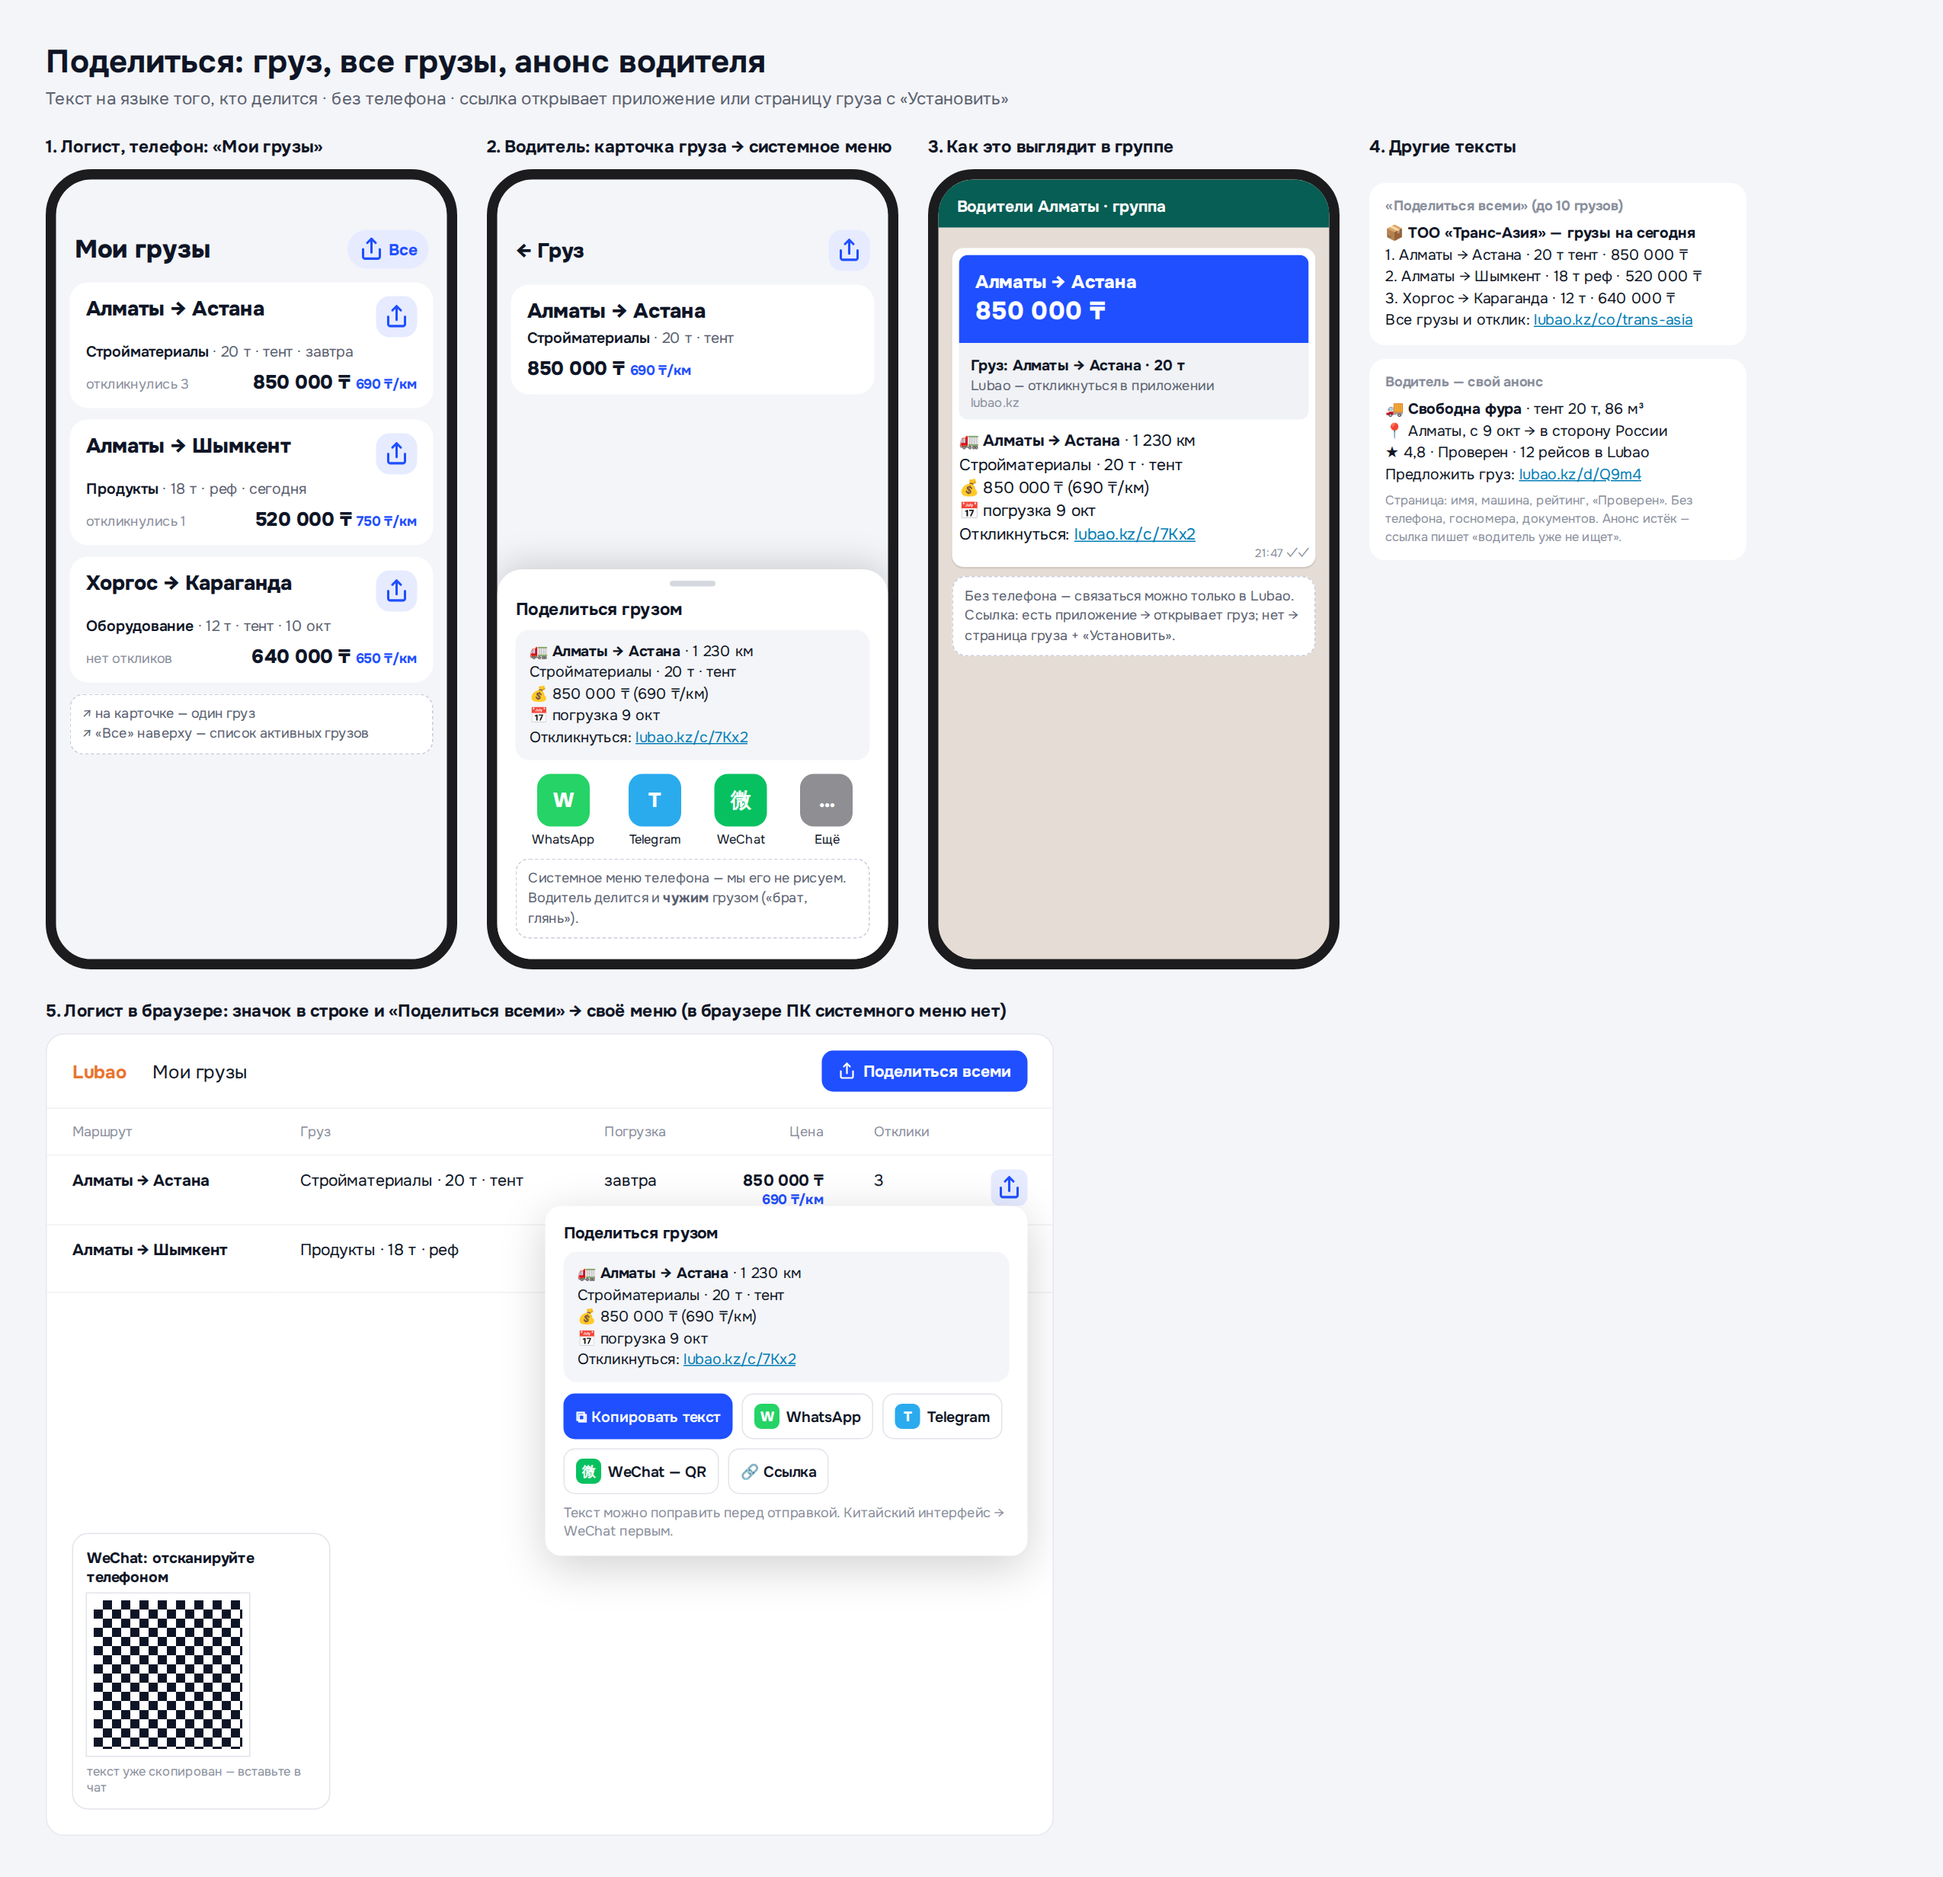
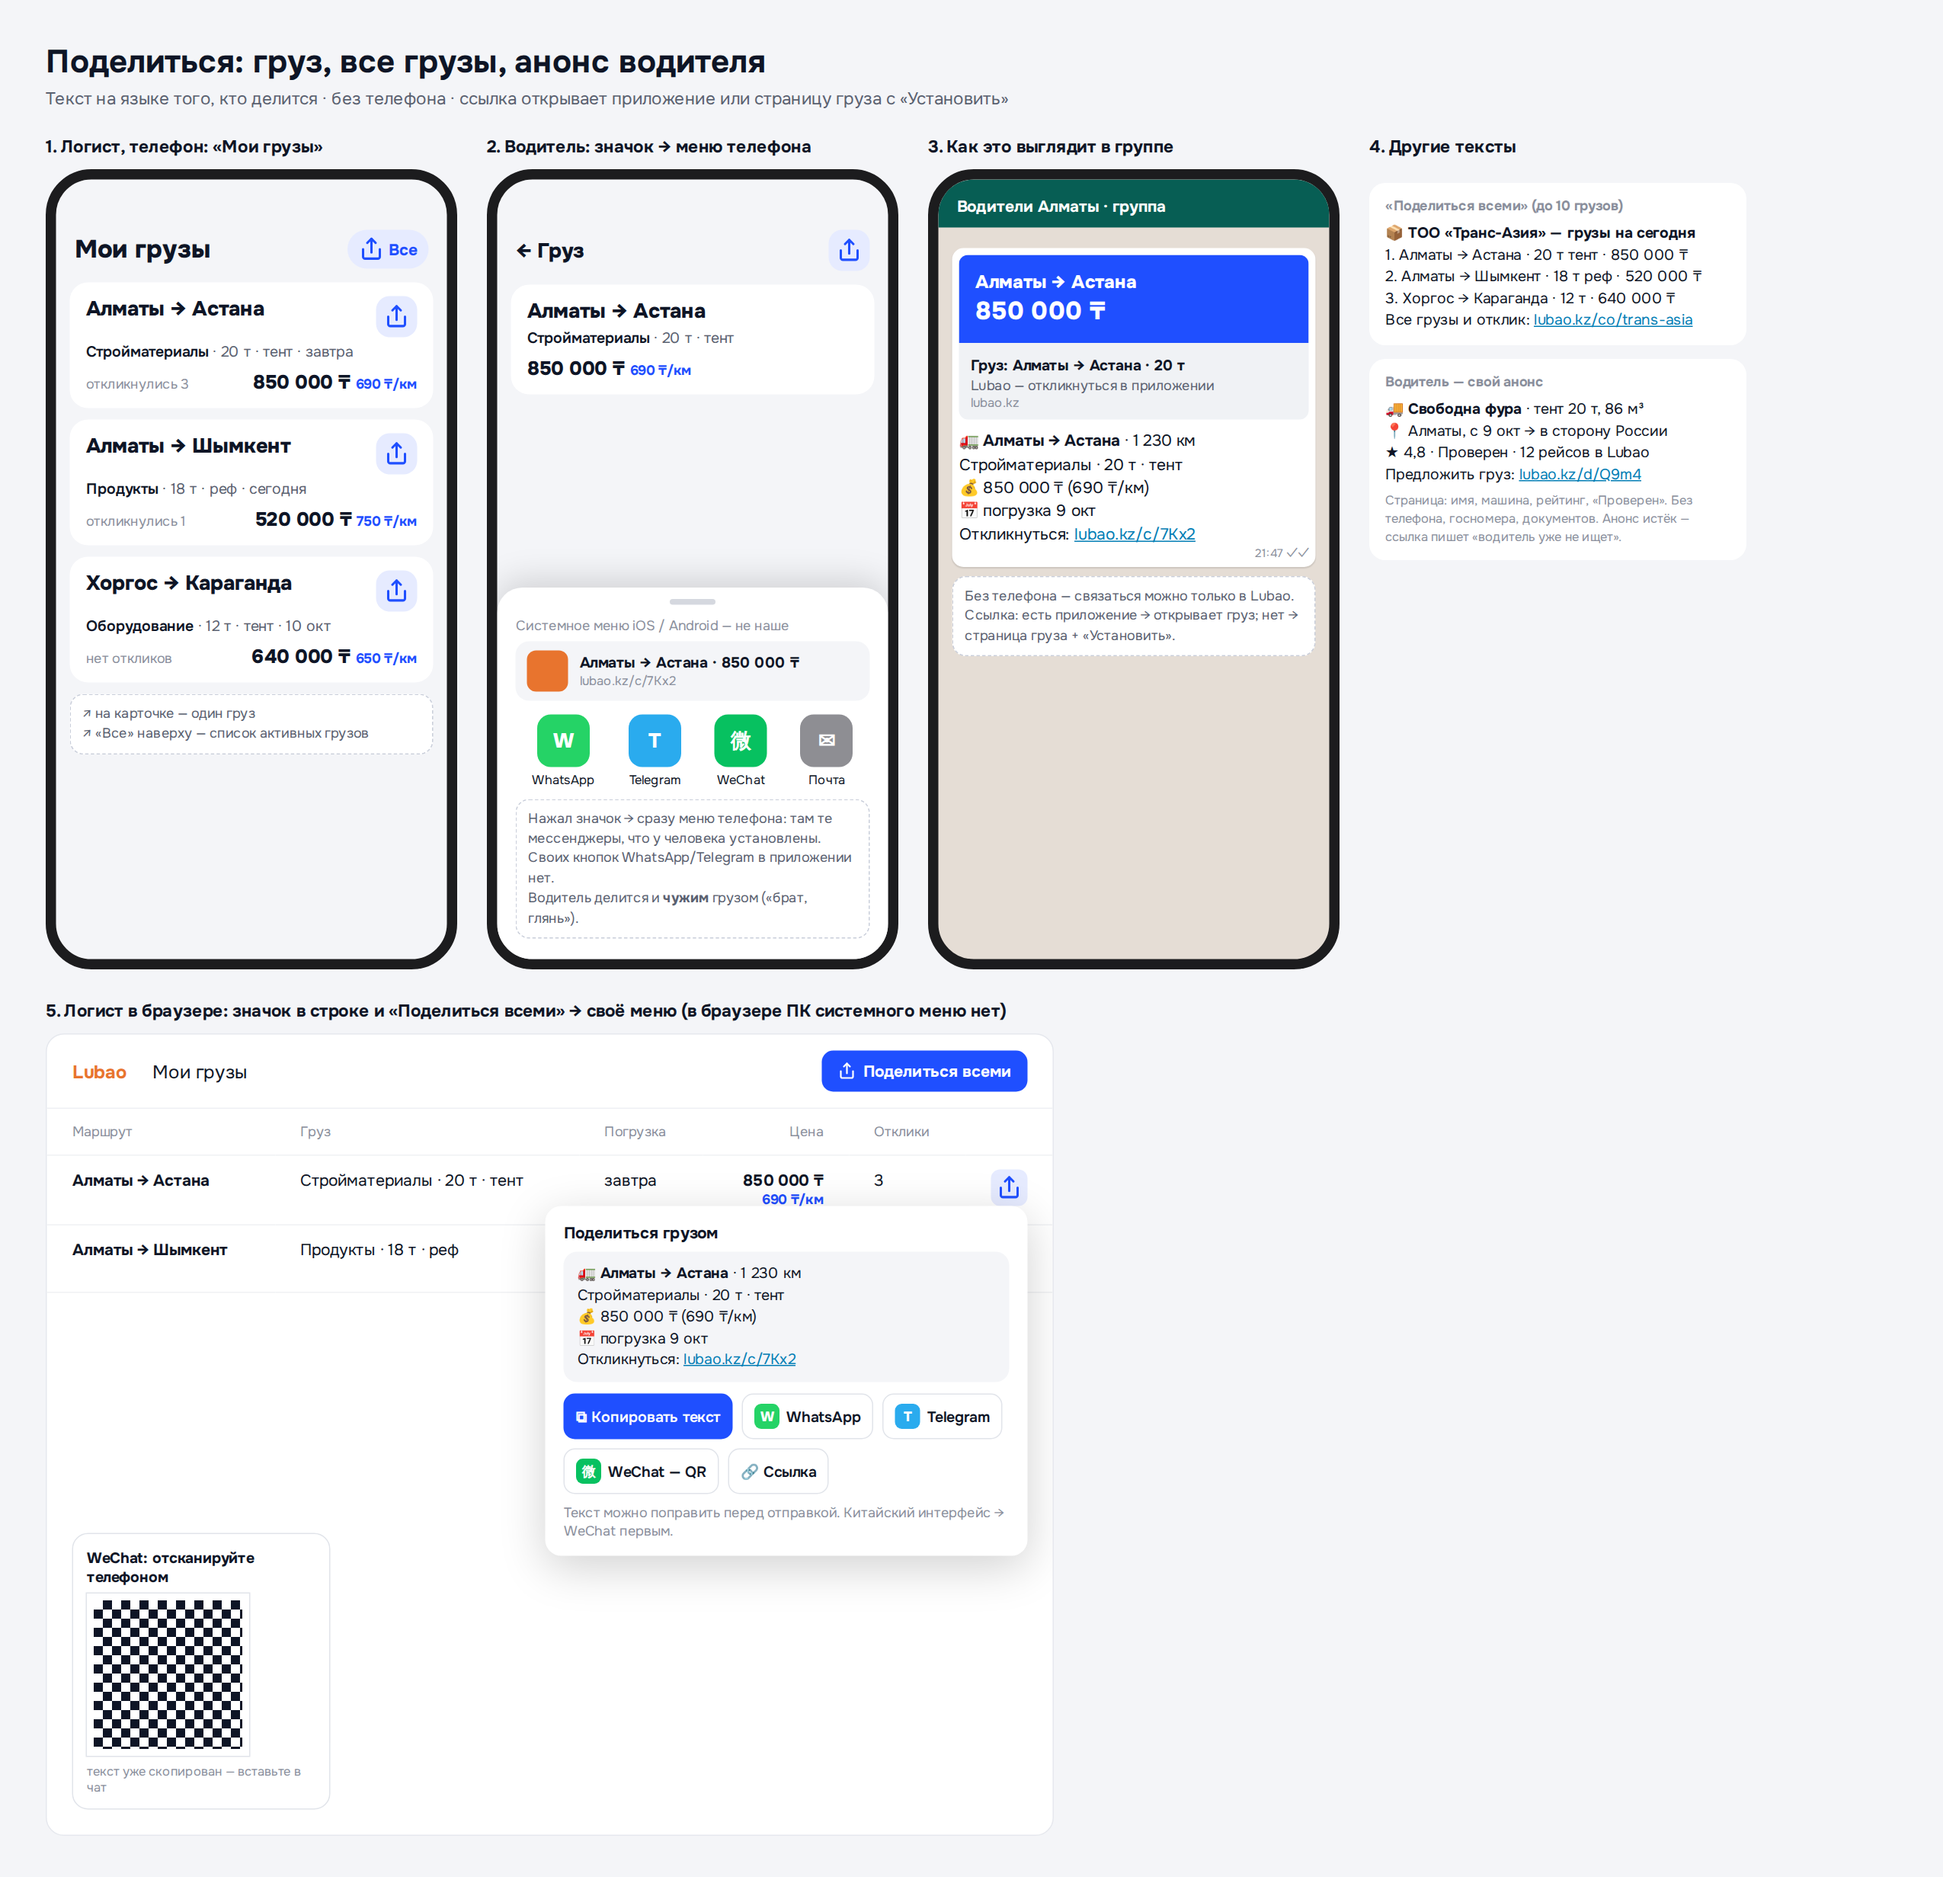
052: на телефоне — сразу системное меню, без своих кнопок мессенджеров; эталон 30 поправлен
Claude-Session: https://claude.ai/code/session_01Ff8oopsZvobH79mMVJKnFv

Changed region(s): [[0.2478, 0.3086, 0.4647, 0.4629], [0.3098, 0.0617, 0.4337, 0.0926]]

diff --git a/docs/tasks/052-share.md b/docs/tasks/052-share.md
@@ -15,7 +15,7 @@
 3. **Открытие в приложении:**
    - App Links (Android) и Universal Links (iOS) на `/c`, `/co`, `/d` — рядом с `/invite`;
    - если приложения нет: установка → после входа сразу нужный экран (отложенная ссылка: код сохраняется на странице перед переходом в магазин и передаётся при первом входе — без сторонних сервисов).
-4. **Кнопки в приложении** (телефон: системное меню, `share_plus`):
+4. **Кнопки в приложении** (телефон: значок → **сразу системное меню** телефона, `share_plus`; своего окна и своих кнопок WhatsApp/Telegram/WeChat в мобильном приложении **нет** — система сама показывает установленные мессенджеры):
    - логист: значок на карточке своего груза и на экране груза; «Все» наверху «Мои грузы» (до 10 активных грузов по одной строке + ссылка `/co`);
    - водитель: значок на экране любого груза из ленты; значок у своего анонса (статус «Ищу груз из …» / «Еду, буду в …»).
 5. **Веб логиста (ПК):** значок в строке таблицы и кнопка «Поделиться всеми» → своё меню:
